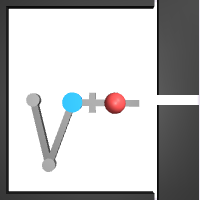
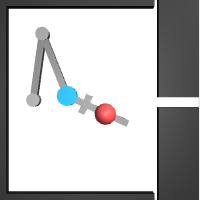
update data distribution

Changed region(s): [[0.15, 0.12, 0.72, 0.87], [0.78, 0.45, 1.0, 0.54]]

diff --git a/ge_world/peg_2d.py b/ge_world/peg_2d.py
@@ -115,8 +115,6 @@ class Peg2DEnv(mujoco_env.MujocoEnv):
         qpos = self.sim.data.qpos
         qvel = self.sim.data.qvel
         qvel[:] = 0
-        if self.free:  # sent the slot out of view
-            qpos[-1:] = 1
         self.set_state(qpos, qvel)
         if self.discrete:
             a = [self.a_dict[int(a_i)] for a_i in a]
@@ -124,7 +122,7 @@ class Peg2DEnv(mujoco_env.MujocoEnv):
         # note: return observation *after* simulation. This is how DeepMind Lab does it.
         ob = self._get_obs()
 
-        dist = np.linalg.norm(self._get_goal_state() - qpos, ord=2)
+        dist = np.linalg.norm(self.goal_state - qpos, ord=2)
         done = dist < 0.04
         reward = float(done) - 1
 
@@ -151,7 +149,6 @@ class Peg2DEnv(mujoco_env.MujocoEnv):
         self.viewer.cam.azimuth = 90
 
     def _get_goal(self):
-        return np.array([0.0])
         while True:
             goals = self.np_random.uniform(low=self.goal_low, high=self.goal_high, size=(4, 1))
             for goal in goals:
@@ -168,39 +165,41 @@ class Peg2DEnv(mujoco_env.MujocoEnv):
                 l * np.sin(angles.sum(axis=-1))
         return x_pos, y_pos
 
-    def _get_state(self):
+    def _get_state(self, goal=None):
         if self.np_random.rand() < self.in_slot:
-            return self._get_goal_state(x=self.np_random.rand() * - 0.01)
+            return self._get_goal_state(x=self.np_random.rand() * - 0.01, goal=goal)
 
         while True:
             import numpy as np
 
-            states = self.np_random.uniform(
-                low=[-1.5, 0, -0.5], high=[1.5, 1.5, 0.5], size=(4, 3))
+            states = self.np_random.uniform(  # info: use single polar for slot mode.
+                low=[-1.5 if self.free else 0, 0, -0.5], high=[1.5, 1.5, 0.5], size=(4, 3))
             states[:, 1] = - np.sign(states[:, 0]) * states[:, 1] - states[:, 0]
             states[:, 2] = states[:, 2] - states[:, :2].sum(axis=-1)
 
             for state in states:
                 finger_pos = self.effector_pos(state)
                 if not self.free:
-                    print(finger_pos[0])
-                    if 0.02 < finger_pos[0] < 0.035:
+                    if 0.02 <= finger_pos[0] < 0.035:
                         return state
                     continue
                 if good_state(state):
                     return state
 
-    def _get_goal_state(self, x=0, goal=None):
+    def _get_goal_state(self, goal, x=0., ):
+        # if self.goal_high:
+        #     assert goal == 0, "only zero goal position is allowed for fixed slot."
         qpos = np.zeros(3)
-        if goal is None:
-            goal = self.goal
 
         peg_x_y = [x, goal / 10]
 
         base = (0.03 + peg_x_y[0])
         hypo = np.linalg.norm([base, peg_x_y[1]], ord=2)
         a0 = np.arctan(peg_x_y[1] / base)
-        a1 = np.sign(self.np_random.rand() - 0.5) * np.arccos(hypo / 0.04)
+        if self.free:
+            a1 = np.sign(self.np_random.rand() - 0.5) * np.arccos(hypo / 0.04)
+        else:
+            a1 = np.arccos(hypo / 0.04)
         qpos[0] = a0 + a1
         qpos[1] = - 2 * a1
         qpos[2] = 0 - qpos[0] - qpos[1]
@@ -211,22 +210,38 @@ class Peg2DEnv(mujoco_env.MujocoEnv):
         self.sim.set_constants()
 
     def reset_model(self, x=None, goal=None):
-        if goal is None:
+        if self.free:
+            # assert goal is None, "can not set goal in free mode."
+            # assert not self.in_slot, "can not have in_slot probability."
             goal = self._get_goal()
-        self.goal = goal
-        if x is None:
-            x = self._get_state()
+            goal_pos = self._get_state(goal=goal)
 
-        qpos = self._get_goal_state()
+            if x is None:  # in free mode, the initial y position should be sampled differently
+                diff_goal = self._get_goal()
+                x = self._get_state(diff_goal)
+
+            # now move the slot out of the way.
+            self.goal = 1
+
+        else:
+            self.goal = goal or self._get_goal()
+            goal_pos = self._get_goal_state(x=-0.003, goal=self.goal)
+
+            if x is None:
+                x = self._get_state(self.goal)
+
+        self.goal_state = goal_pos.copy()
+
         self.set_goal_pos(1)
-        self.set_state(qpos, self.sim.data.qvel)
+        self.set_state(goal_pos, self.sim.data.qvel)
 
         img = self.render(self.view_mode, width=self.width, height=self.height)
         if self.view_mode == "grey":
             img = img[..., None]
         self.goal_img = img.transpose(2, 0, 1) / 255
 
-        # now reset.
+        # Now genrate the initial positions
+
         self.set_goal_pos(self.goal)
         self.sim.data.qpos[:] = x
         self.sim.data.qvel[:] = 0  # no velocity
@@ -237,7 +252,6 @@ class Peg2DEnv(mujoco_env.MujocoEnv):
         return delta
 
     def _get_obs(self):
-        # print(self.get_body_com('fingertip'))
         obs = {}
         qpos = self.sim.data.qpos.flat.copy()
         if 'x' in self.obs_keys:
@@ -268,7 +282,7 @@ if __name__ == "__main__":
 
     # env = Peg2DEnv(discrete=True, id_less=False, obs_keys=["x", 'img'])
     env_id = "Peg2D-v0"
-    # env_id = "Peg2DFreeSample-v0"
+    # env_id = "Peg2DFree-v0"
     env = gym.make(env_id)
     seed = 100
     env.seed(seed)
@@ -303,7 +317,7 @@ if __name__ == "__main__":
             frames.append(frame)
 
     stack = np.stack(frames)
-    logger.log_image(stack.min(0), key=f"../figures/{seed}/{env_id}_spread.png")
+    logger.log_image(stack.min(0), key=f"../figures/{env_id}_spread.png")
 
     print('done rendering!')
 
@@ -315,6 +329,14 @@ else:
         id="Peg2D-v0",
         entry_point=Peg2DEnv,
         kwargs=dict(discrete=True, view_mode='grey', in_slot=0,
+                    obs_keys=['x', 'goal', 'img', 'goal_img', 'a']),
+        max_episode_steps=1000,
+    )
+    register(  # info: not used.
+        id="Peg2DFixed-v0",
+        entry_point=Peg2DEnv,
+        kwargs=dict(discrete=True, view_mode='grey', in_slot=0,
+                    goal_low=0, goal_high=0,
                     obs_keys=['x', 'goal', 'img', 'goal_img', 'a']),
         max_episode_steps=1000,
     )

diff --git a/README.md b/README.md
@@ -51,7 +51,19 @@ use `"a"` key to access the raw, continuous action.
 
 The initial state is distributed as such:
 
-![./figures/Peg2DImgDiscrete-v0_spread.png](./figures/Peg2DFreeImgDiscreteIdLess-v0_spread.png)
+![./figures/Peg2DImgDiscrete-v0_spread.png](./figures/Peg2DFree-v0_spread.png)
+
+## Peg2DFree-v0
+
+| key        | "Free" | Regular |
+| ---------- | ------ | ------- |
+| "human"    | ![](./figures/Peg2DFree-v0.png) | ![](./figures/Peg2D-v0.png) |
+| "img"      | ![](./figures/Peg2DFree-v0_img.png) | ![](./figures/Peg2D-v0_img.png) |
+| "goal_img" | ![](./figures/Peg2DFree-v0_goal_img.png) | ![](./figures/Peg2D-v0_goal_img.png) |
+
+The initial state is distributed as such:
+
+![./figures/Peg2DFree-v0_spread.png](./figures/Peg2DFree-v0_spread.png)
 
 ---
 
